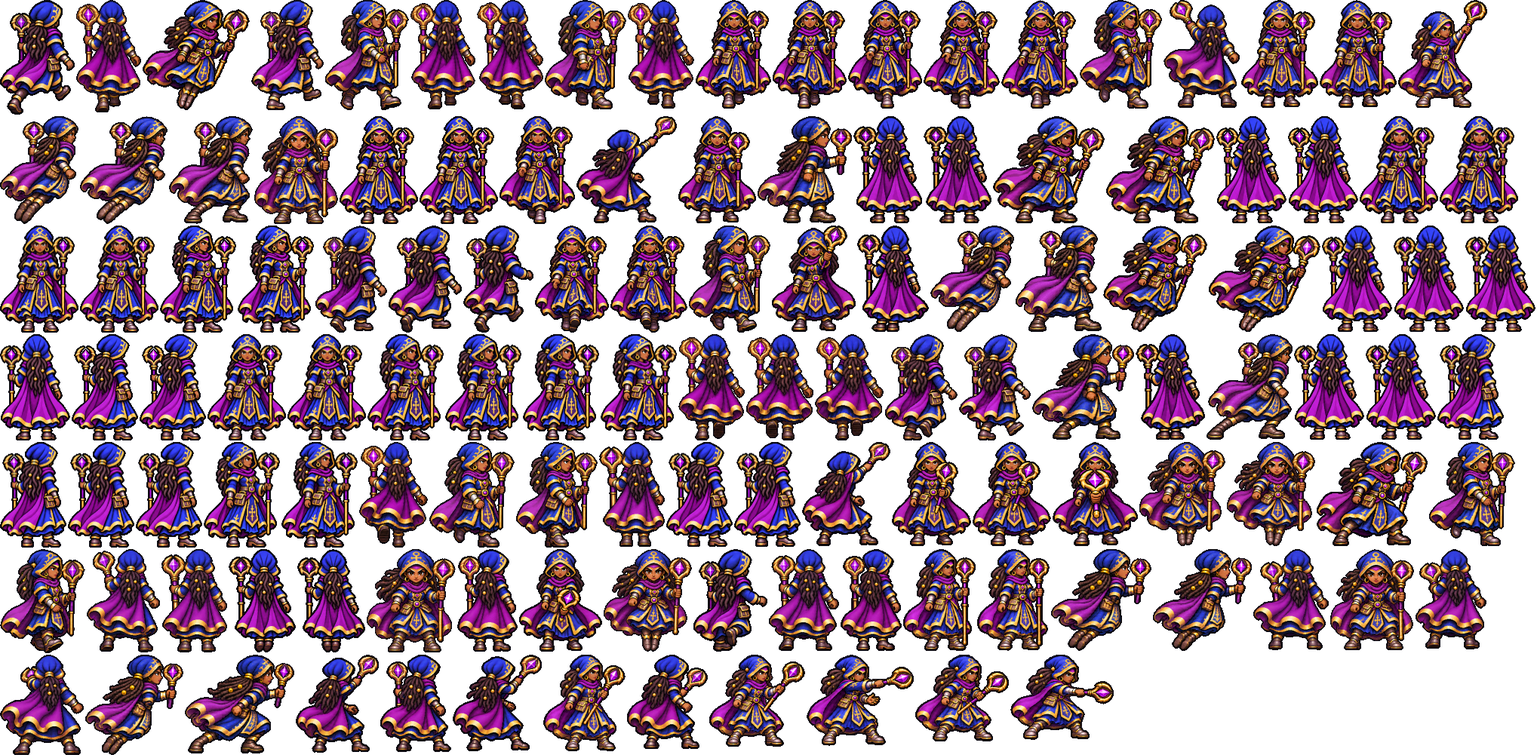
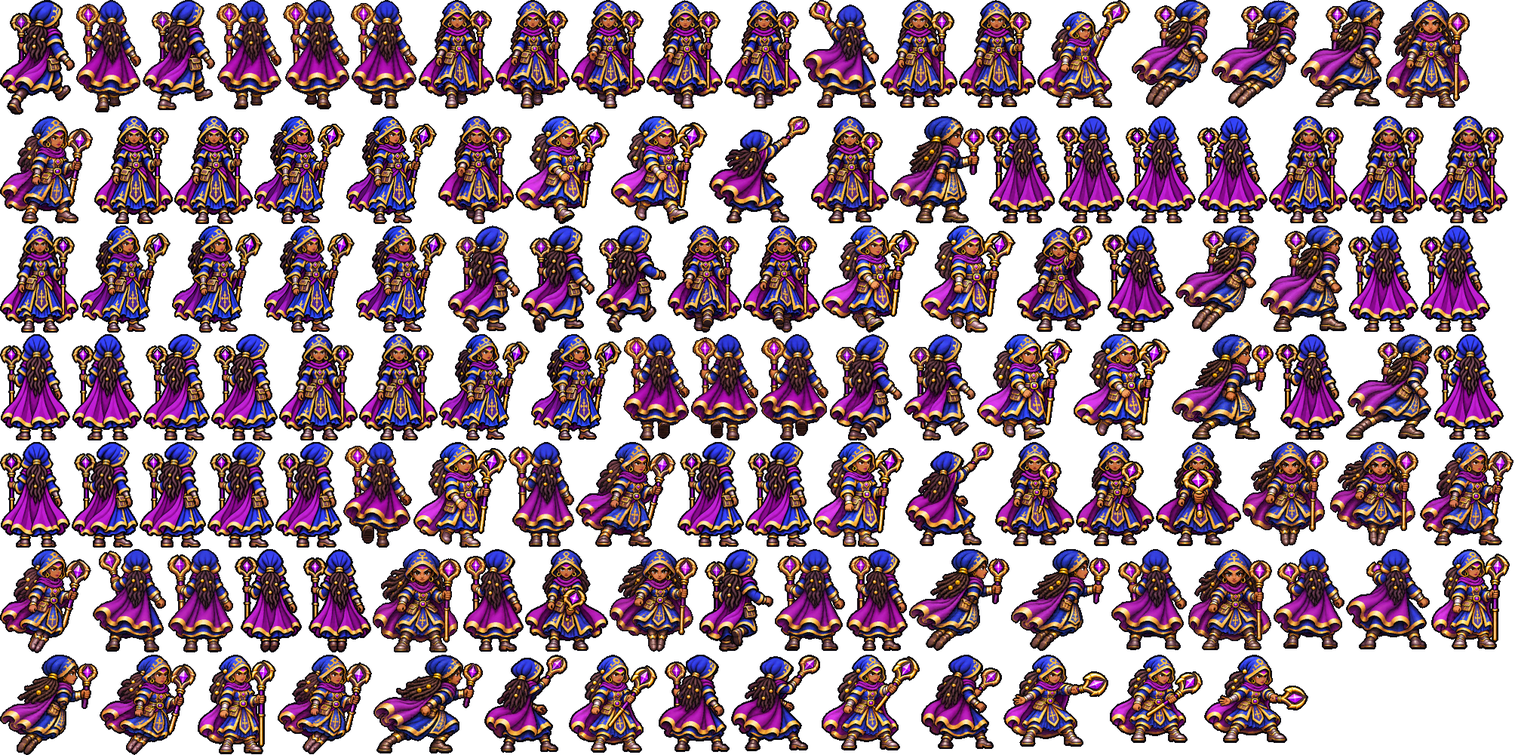
Demo: Mage down-right from batch 20
Claude-Session: https://claude.ai/code/session_01GdUtVyN9RJChkwtqMYVHJY

diff --git a/game.html b/game.html
@@ -4134,11 +4134,11 @@ const HDP = {}; for(const k in HDP_MAN){ HDP[k] = new Image(); const v = HDP_V[k
 // Eight directions (batch 13, the Mage's redrawn in batch 15): the side view is the frames above; south, south-east, north-east and north
 // come from one sheet per hero (HDIR_MAN: [x, y, w, h, anchor x, lift]), loaded when that hero first takes the field, and the west side
 // is drawn mirrored. The dodge has its own frames in every direction, the side included. Hurt, death and the spinning skills stay side-on.
-const HDIR_MAN = {"knight":{"atk_n_1":[348,1016,114,115,67.0,0],"atk_n_2":[1086,885,112,125,72.8,0],"atk_n_3":[502,885,103,127,62.5,0],"atk_n_4":[1037,603,96,140,58.2,0],"atk_n_5":[1513,0,98,145,58.8,0],"atk_n_6":[122,603,102,142,60.1,0],"atk_n_7":[1668,748,111,129,64.4,0],"atk_n_8":[607,885,105,127,66.8,0],"atk_ne_1":[1613,0,115,145,72.0,0],"atk_ne_2":[1781,748,120,129,76.4,0],"atk_ne_3":[1135,603,142,139,86.0,0],"atk_ne_4":[555,603,131,141,70.4,0],"atk_ne_5":[211,0,128,152,68.5,0],"atk_ne_6":[1155,748,129,131,91.8,0],"atk_ne_7":[1903,748,129,129,89.9,0],"atk_ne_8":[1730,0,114,145,71.8,0],"atk_s_1":[1329,885,120,124,52.0,0],"atk_s_2":[0,748,122,135,51.8,0],"atk_s_3":[124,748,125,135,52.0,0],"atk_s_4":[451,0,97,151,52.6,0],"atk_s_5":[0,0,97,162,51.6,0],"atk_s_6":[688,603,117,141,58.8,0],"atk_s_7":[1286,748,123,131,60.2,0],"atk_s_8":[1788,603,123,137,53.0,0],"atk_se_1":[807,603,126,141,60.0,0],"atk_se_2":[130,885,128,128,63.6,0],"atk_se_3":[251,748,128,133,65.2,0],"atk_se_4":[1279,603,113,139,67.1,0],"atk_se_5":[99,0,110,154,63.8,0],"atk_se_6":[381,748,144,133,68.5,0],"atk_se_7":[527,748,129,133,64.2,0],"atk_se_8":[1913,603,126,137,66.4,0],"ddg_e_1":[1200,885,127,125,49.3,4],"ddg_e_2":[1709,1016,152,96,63.3,4],"ddg_e_3":[1863,1016,117,94,46.5,4],"ddg_e_4":[1833,885,115,118,64.0,0],"ddg_e_5":[464,1016,131,113,50.7,0],"ddg_e_6":[1711,885,120,119,58.0,0],"ddg_e_7":[780,748,114,132,58.2,0],"ddg_e_8":[1846,0,107,145,58.0,0],"ddg_n_1":[714,885,123,127,42.2,0],"ddg_n_2":[972,1016,120,107,45.2,0],"ddg_n_3":[1232,1016,117,106,58.4,0],"ddg_n_4":[1451,885,115,122,64.0,0],"ddg_n_5":[839,885,105,126,39.3,0],"ddg_n_6":[896,748,118,132,52.5,0],"ddg_n_7":[456,457,119,143,59.5,0],"ddg_n_8":[550,0,107,150,55.0,0],"ddg_ne_1":[0,885,128,129,60.1,0],"ddg_ne_2":[1411,748,140,131,72.5,6],"ddg_ne_3":[737,1016,109,110,56.8,21],"ddg_ne_4":[125,1016,105,116,59.9,22],"ddg_ne_5":[1016,748,137,132,65.8,7],"ddg_ne_6":[260,885,137,128,71.7,0],"ddg_ne_7":[1394,603,134,139,73.1,0],"ddg_ne_8":[659,0,124,150,68.0,0],"ddg_s_1":[232,1016,114,116,50.4,0],"ddg_s_2":[1351,1016,120,104,59.5,0],"ddg_s_3":[399,885,101,128,50.4,0],"ddg_s_4":[1473,1016,110,98,55.6,11],"ddg_s_5":[1585,1016,122,98,58.5,0],"ddg_s_6":[0,1016,123,118,59.5,0],"ddg_s_7":[658,748,120,133,56.2,0],"ddg_s_8":[0,164,116,145,51.0,0],"ddg_se_1":[1568,885,141,120,60.9,0],"ddg_se_2":[597,1016,138,111,63.1,0],"ddg_se_3":[1553,748,113,131,54.2,0],"ddg_se_4":[848,1016,122,110,58.2,10],"ddg_se_5":[1094,1016,136,107,62.5,0],"ddg_se_6":[946,885,138,126,63.1,0],"ddg_se_7":[1530,603,139,139,67.5,0],"ddg_se_8":[1028,0,130,146,59.0,0],"idl_n_1":[118,164,104,145,65.0,0],"idl_n_2":[0,311,104,144,65.0,0],"idl_n_3":[106,311,104,144,65.0,0],"idl_n_4":[577,457,104,143,65.0,0],"idl_n_5":[683,457,104,143,65.0,0],"idl_n_6":[212,311,104,144,65.0,0],"idl_n_7":[318,311,104,144,65.0,0],"idl_n_8":[224,164,104,145,65.0,0],"idl_ne_1":[424,311,103,144,67.0,0],"idl_ne_2":[789,457,103,143,67.0,0],"idl_ne_3":[894,457,103,143,67.0,0],"idl_ne_4":[226,603,103,142,67.0,0],"idl_ne_5":[331,603,103,142,67.0,0],"idl_ne_6":[999,457,103,143,67.0,0],"idl_ne_7":[1104,457,103,143,67.0,0],"idl_ne_8":[529,311,103,144,67.0,0],"idl_s_1":[330,164,111,145,42.0,0],"idl_s_2":[634,311,111,144,42.0,0],"idl_s_3":[747,311,111,144,42.0,0],"idl_s_4":[1209,457,111,143,42.0,0],"idl_s_5":[1322,457,111,143,42.0,0],"idl_s_6":[860,311,111,144,42.0,0],"idl_s_7":[973,311,111,144,42.0,0],"idl_s_8":[443,164,111,145,42.0,0],"idl_se_1":[556,164,114,145,45.0,0],"idl_se_2":[1086,311,114,144,45.0,0],"idl_se_3":[1202,311,114,144,45.0,0],"idl_se_4":[1435,457,114,143,45.0,0],"idl_se_5":[1551,457,114,143,45.0,0],"idl_se_6":[1318,311,114,144,45.0,0],"idl_se_7":[1434,311,114,144,45.0,0],"idl_se_8":[672,164,114,145,45.0,0],"wk_n_1":[788,164,106,145,66.0,0],"wk_n_2":[1550,311,105,144,66.0,0],"wk_n_3":[1657,311,107,144,67.0,0],"wk_n_4":[1766,311,105,144,66.0,0],"wk_n_5":[1873,311,106,144,66.0,0],"wk_n_6":[1667,457,105,143,66.0,0],"wk_n_7":[0,457,106,144,66.0,0],"wk_n_8":[896,164,105,145,66.0,0],"wk_ne_1":[1003,164,104,145,66.0,0],"wk_ne_2":[935,603,100,141,64.0,0],"wk_ne_3":[1774,457,101,143,64.0,0],"wk_ne_4":[108,457,105,144,65.0,0],"wk_ne_5":[341,0,108,152,62.0,0],"wk_ne_6":[1671,603,115,139,67.0,0],"wk_ne_7":[1877,457,113,143,65.0,0],"wk_ne_8":[1160,0,110,146,63.0,0],"wk_s_1":[1109,164,107,145,42.0,0],"wk_s_2":[1218,164,108,145,43.0,0],"wk_s_3":[1328,164,108,145,44.0,0],"wk_s_4":[1438,164,108,145,44.0,0],"wk_s_5":[1548,164,107,145,43.0,0],"wk_s_6":[1657,164,108,145,44.0,0],"wk_s_7":[1767,164,108,145,44.0,0],"wk_s_8":[1877,164,108,145,45.0,0],"wk_se_1":[907,0,119,149,60.0,0],"wk_se_2":[215,457,119,144,60.0,0],"wk_se_3":[436,603,117,142,58.0,0],"wk_se_4":[1272,0,118,146,61.0,0],"wk_se_5":[785,0,120,150,61.0,0],"wk_se_6":[336,457,118,144,60.0,0],"wk_se_7":[0,603,120,143,62.0,0],"wk_se_8":[1392,0,119,146,62.0,0]},"mage":{"atk_n_1":[794,586,87,139,47.0,0],"atk_n_2":[1019,728,93,135,51.3,0],"atk_n_3":[1876,728,94,133,52.9,0],"atk_n_4":[115,728,97,137,58.5,0],"atk_n_5":[1542,0,101,143,60.1,0],"atk_n_6":[0,868,111,133,65.8,0],"atk_n_7":[1661,728,100,134,60.1,0],"atk_n_8":[214,728,87,137,49.6,0],"atk_ne_1":[606,728,80,136,42.0,0],"atk_ne_2":[504,868,94,129,55.2,0],"atk_ne_3":[831,868,107,125,62.5,0],"atk_ne_4":[392,868,110,130,67.4,0],"atk_ne_5":[1063,586,117,138,64.9,0],"atk_ne_6":[764,154,133,142,72.2,0],"atk_ne_7":[600,868,118,128,68.0,0],"atk_ne_8":[1114,728,81,135,45.6,0],"atk_s_1":[1645,0,102,143,53.0,0],"atk_s_2":[899,154,103,142,54.2,0],"atk_s_3":[1182,586,105,138,54.7,0],"atk_s_4":[1289,586,104,138,54.9,0],"atk_s_5":[1023,299,111,141,57.8,0],"atk_s_6":[1395,586,113,138,58.9,0],"atk_s_7":[688,728,110,136,57.4,0],"atk_s_8":[1749,0,102,143,52.8,0],"atk_se_1":[1197,728,96,135,51.0,0],"atk_se_2":[720,868,109,128,64.3,0],"atk_se_3":[1213,868,124,115,70.9,0],"atk_se_4":[940,868,127,122,71.0,0],"atk_se_5":[1853,0,118,143,63.1,0],"atk_se_6":[1069,868,142,121,73.9,0],"atk_se_7":[1339,868,137,113,77.3,0],"atk_se_8":[1295,728,96,135,59.0,0],"ddg_e_1":[245,868,145,131,60.0,0],"ddg_e_2":[113,868,130,133,58.2,9],"ddg_e_3":[1393,728,133,135,65.4,7],"ddg_e_4":[1528,728,131,135,69.7,6],"ddg_e_5":[1368,443,135,140,72.2,0],"ddg_e_6":[1004,154,125,142,65.0,0],"ddg_n_1":[1131,154,91,142,44.7,0],"ddg_n_2":[1136,299,95,141,42.6,0],"ddg_n_3":[303,728,89,137,43.1,7],"ddg_n_4":[394,728,90,137,45.2,10],"ddg_n_5":[1505,443,92,140,48.4,0],"ddg_n_6":[1224,154,90,142,46.0,0],"ddg_ne_1":[1599,443,114,140,40.8,0],"ddg_ne_2":[0,154,104,143,43.4,4],"ddg_ne_3":[1233,299,111,141,56.0,7],"ddg_ne_4":[106,154,116,143,65.4,4],"ddg_ne_5":[224,154,111,143,65.4,0],"ddg_ne_6":[1346,299,114,141,64.0,0],"ddg_s_1":[1763,728,111,134,54.7,0],"ddg_s_2":[1510,586,114,138,58.6,7],"ddg_s_3":[800,728,117,136,61.2,17],"ddg_s_4":[1626,586,117,138,61.9,11],"ddg_s_5":[486,728,118,137,60.6,0],"ddg_s_6":[337,154,111,143,56.0,0],"ddg_se_1":[1745,586,147,138,55.5,0],"ddg_se_2":[189,0,142,146,54.3,0],"ddg_se_3":[1462,299,138,141,63.2,9],"ddg_se_4":[1602,299,148,141,73.9,7],"ddg_se_5":[1316,154,148,142,75.5,0],"ddg_se_6":[1466,154,144,142,72.0,0],"idl_n_1":[1612,154,93,142,45.0,0],"idl_n_2":[1752,299,93,141,45.0,0],"idl_n_3":[1847,299,93,141,45.0,0],"idl_n_4":[1715,443,93,140,45.0,0],"idl_n_5":[1810,443,93,140,45.0,0],"idl_n_6":[1942,299,93,141,45.0,0],"idl_n_7":[0,443,93,141,45.0,0],"idl_n_8":[1707,154,93,142,45.0,0],"idl_ne_1":[95,443,88,141,47.0,0],"idl_ne_2":[1905,443,88,140,47.0,0],"idl_ne_3":[0,586,88,140,47.0,0],"idl_ne_4":[883,586,88,139,47.0,0],"idl_ne_5":[973,586,88,139,47.0,0],"idl_ne_6":[90,586,88,140,47.0,0],"idl_ne_7":[180,586,88,140,47.0,0],"idl_ne_8":[185,443,88,141,47.0,0],"idl_s_1":[450,154,104,143,55.0,0],"idl_s_2":[1802,154,104,142,55.0,0],"idl_s_3":[1908,154,104,142,55.0,0],"idl_s_4":[275,443,104,141,55.0,0],"idl_s_5":[381,443,104,141,55.0,0],"idl_s_6":[0,299,104,142,55.0,0],"idl_s_7":[106,299,104,142,55.0,0],"idl_s_8":[556,154,104,143,55.0,0],"idl_se_1":[212,299,101,142,54.0,0],"idl_se_2":[487,443,101,141,54.0,0],"idl_se_3":[590,443,101,141,54.0,0],"idl_se_4":[270,586,101,140,54.0,0],"idl_se_5":[373,586,101,140,54.0,0],"idl_se_6":[693,443,101,141,54.0,0],"idl_se_7":[796,443,101,141,54.0,0],"idl_se_8":[315,299,101,142,54.0,0],"wk_n_1":[101,0,86,149,45.0,0],"wk_n_2":[544,0,86,145,46.0,0],"wk_n_3":[899,443,88,141,46.0,0],"wk_n_4":[476,586,91,140,47.0,0],"wk_n_5":[632,0,88,145,47.0,0],"wk_n_6":[832,0,88,144,46.0,0],"wk_n_7":[989,443,89,141,47.0,0],"wk_n_8":[1080,443,91,141,48.0,0],"wk_ne_1":[333,0,96,146,54.0,0],"wk_ne_2":[418,299,95,142,52.0,0],"wk_ne_3":[1173,443,96,141,51.0,0],"wk_ne_4":[1271,443,95,141,50.0,0],"wk_ne_5":[0,0,99,152,56.0,0],"wk_ne_6":[515,299,97,142,54.0,0],"wk_ne_7":[919,728,98,136,51.0,0],"wk_ne_8":[614,299,93,142,47.0,0],"wk_s_1":[922,0,100,144,52.0,0],"wk_s_2":[1024,0,98,144,50.0,0],"wk_s_3":[709,299,98,142,50.0,0],"wk_s_4":[1124,0,98,144,51.0,0],"wk_s_5":[662,154,100,143,52.0,0],"wk_s_6":[1224,0,101,144,53.0,0],"wk_s_7":[809,299,102,142,53.0,0],"wk_s_8":[1327,0,102,144,54.0,0],"wk_se_1":[722,0,108,145,56.0,0],"wk_se_2":[569,586,113,140,60.0,0],"wk_se_3":[684,586,108,140,56.0,0],"wk_se_4":[431,0,111,146,60.0,0],"wk_se_5":[913,299,108,142,56.0,0],"wk_se_6":[1894,586,114,138,61.0,0],"wk_se_7":[0,728,113,138,60.0,0],"wk_se_8":[1431,0,109,144,57.0,0]},"rogue":{"atk_n_1":[495,157,94,141,46.0,0],"atk_n_2":[1434,722,108,118,57.2,0],"atk_n_3":[1667,722,96,117,57.7,0],"atk_n_4":[954,585,97,131,61.9,0],"atk_n_5":[1861,444,105,136,56.7,0],"atk_n_6":[1143,585,127,130,62.3,0],"atk_n_7":[130,722,123,125,58.4,0],"atk_n_8":[499,0,100,142,54.2,0],"atk_ne_1":[591,157,96,141,44.0,0],"atk_ne_2":[1812,585,112,127,56.6,0],"atk_ne_3":[1272,585,107,130,57.2,0],"atk_ne_4":[601,0,108,142,57.0,0],"atk_ne_5":[0,585,120,135,59.4,0],"atk_ne_6":[627,585,138,133,61.0,0],"atk_ne_7":[1586,585,127,129,57.9,0],"atk_ne_8":[689,157,100,141,48.9,0],"atk_s_1":[323,585,93,134,47.0,0],"atk_s_2":[541,851,110,112,55.0,0],"atk_s_3":[1715,585,95,128,42.2,0],"atk_s_4":[122,585,96,135,46.5,0],"atk_s_5":[99,301,96,140,44.6,0],"atk_s_6":[0,722,128,127,70.7,0],"atk_s_7":[1544,722,121,118,59.3,0],"atk_s_8":[767,585,94,133,47.2,0],"atk_se_1":[1371,301,92,139,42.0,0],"atk_se_2":[356,722,101,122,44.2,0],"atk_se_3":[780,722,91,120,39.7,0],"atk_se_4":[418,585,97,134,47.2,0],"atk_se_5":[517,585,108,134,45.0,0],"atk_se_6":[1381,585,113,130,48.2,0],"atk_se_7":[255,722,99,124,48.3,0],"atk_se_8":[792,444,98,138,47.2,0],"ddg_e_1":[133,851,134,113,68.3,0],"ddg_e_2":[1893,722,135,116,75.6,0],"ddg_e_3":[882,851,144,109,70.0,12],"ddg_e_4":[873,722,146,120,59.8,0],"ddg_e_5":[643,722,135,121,50.1,0],"ddg_e_6":[711,0,126,142,57.0,0],"ddg_n_1":[653,851,94,111,42.7,0],"ddg_n_2":[1496,585,88,130,40.7,0],"ddg_n_3":[791,157,86,141,40.7,7],"ddg_n_4":[892,444,86,138,41.9,0],"ddg_n_5":[459,722,87,122,42.4,0],"ddg_n_6":[879,157,80,141,39.0,0],"ddg_ne_1":[749,851,131,111,78.8,0],"ddg_ne_2":[1765,722,126,117,85.8,0],"ddg_ne_3":[1262,851,168,106,100.7,4],"ddg_ne_4":[1298,722,134,119,67.8,0],"ddg_ne_5":[269,851,137,113,55.9,0],"ddg_ne_6":[839,0,118,142,59.0,0],"ddg_s_1":[1028,851,92,109,45.7,4],"ddg_s_2":[1053,585,88,131,43.5,4],"ddg_s_3":[0,0,91,155,45.2,0],"ddg_s_4":[197,301,92,140,45.5,0],"ddg_s_5":[548,722,93,122,46.0,4],"ddg_s_6":[959,0,89,142,44.0,4],"ddg_se_1":[408,851,131,113,66.0,0],"ddg_se_2":[0,851,131,115,72.8,0],"ddg_se_3":[1122,851,138,108,68.0,13],"ddg_se_4":[1021,722,143,120,57.6,0],"ddg_se_5":[1166,722,130,120,47.6,0],"ddg_se_6":[1050,0,122,142,54.0,0],"idl_n_1":[291,301,93,140,47.0,0],"idl_n_2":[1465,301,93,139,47.0,0],"idl_n_3":[1560,301,93,139,47.0,0],"idl_n_4":[980,444,93,138,47.0,0],"idl_n_5":[1075,444,93,138,47.0,0],"idl_n_6":[1655,301,93,139,47.0,0],"idl_n_7":[1750,301,93,139,47.0,0],"idl_n_8":[386,301,93,140,47.0,0],"idl_ne_1":[481,301,91,140,46.0,0],"idl_ne_2":[1845,301,91,139,46.0,0],"idl_ne_3":[1938,301,91,139,46.0,0],"idl_ne_4":[1170,444,91,138,46.0,0],"idl_ne_5":[1263,444,91,138,46.0,0],"idl_ne_6":[0,444,91,139,46.0,0],"idl_ne_7":[93,444,91,139,46.0,0],"idl_ne_8":[574,301,91,140,46.0,0],"idl_s_1":[1174,0,105,142,54.0,0],"idl_s_2":[961,157,105,141,54.0,0],"idl_s_3":[1068,157,105,141,54.0,0],"idl_s_4":[667,301,105,140,54.0,0],"idl_s_5":[774,301,105,140,54.0,0],"idl_s_6":[1175,157,105,141,54.0,0],"idl_s_7":[1282,157,105,141,54.0,0],"idl_s_8":[1281,0,105,142,54.0,0],"idl_se_1":[881,301,105,140,50.0,0],"idl_se_2":[186,444,105,139,50.0,0],"idl_se_3":[293,444,105,139,50.0,0],"idl_se_4":[1356,444,105,138,50.0,0],"idl_se_5":[1463,444,105,138,50.0,0],"idl_se_6":[400,444,105,139,50.0,0],"idl_se_7":[507,444,105,139,50.0,0],"idl_se_8":[988,301,105,140,50.0,0],"wk_n_1":[93,0,95,144,47.0,0],"wk_n_2":[1388,0,96,142,47.0,0],"wk_n_3":[1389,157,96,141,48.0,0],"wk_n_4":[1487,157,97,141,49.0,0],"wk_n_5":[1586,157,96,141,48.0,0],"wk_n_6":[1095,301,95,140,48.0,0],"wk_n_7":[294,0,96,143,48.0,0],"wk_n_8":[1486,0,96,142,48.0,0],"wk_ne_1":[1192,301,87,140,42.0,0],"wk_ne_2":[863,585,89,132,44.0,0],"wk_ne_3":[614,444,84,139,40.0,0],"wk_ne_4":[1684,157,89,141,42.0,0],"wk_ne_5":[392,0,105,143,51.0,0],"wk_ne_6":[1570,444,101,138,48.0,0],"wk_ne_7":[220,585,101,135,48.0,0],"wk_ne_8":[190,0,102,144,50.0,0],"wk_s_1":[1584,0,97,142,50.0,0],"wk_s_2":[1683,0,100,142,51.0,0],"wk_s_3":[1785,0,100,142,52.0,0],"wk_s_4":[1887,0,99,142,53.0,0],"wk_s_5":[0,157,96,142,51.0,0],"wk_s_6":[98,157,99,142,52.0,0],"wk_s_7":[1775,157,97,141,51.0,0],"wk_s_8":[199,157,102,142,55.0,0],"wk_se_1":[303,157,92,142,44.0,0],"wk_se_2":[1673,444,92,138,43.0,0],"wk_se_3":[1281,301,88,140,41.0,0],"wk_se_4":[397,157,96,142,44.0,0],"wk_se_5":[1874,157,96,141,47.0,0],"wk_se_6":[1767,444,92,137,43.0,0],"wk_se_7":[700,444,90,139,41.0,0],"wk_se_8":[0,301,97,141,44.0,0]}};
+const HDIR_MAN = {"knight":{"atk_n_1":[348,1016,114,115,67.0,0],"atk_n_2":[1086,885,112,125,72.8,0],"atk_n_3":[502,885,103,127,62.5,0],"atk_n_4":[1037,603,96,140,58.2,0],"atk_n_5":[1513,0,98,145,58.8,0],"atk_n_6":[122,603,102,142,60.1,0],"atk_n_7":[1668,748,111,129,64.4,0],"atk_n_8":[607,885,105,127,66.8,0],"atk_ne_1":[1613,0,115,145,72.0,0],"atk_ne_2":[1781,748,120,129,76.4,0],"atk_ne_3":[1135,603,142,139,86.0,0],"atk_ne_4":[555,603,131,141,70.4,0],"atk_ne_5":[211,0,128,152,68.5,0],"atk_ne_6":[1155,748,129,131,91.8,0],"atk_ne_7":[1903,748,129,129,89.9,0],"atk_ne_8":[1730,0,114,145,71.8,0],"atk_s_1":[1329,885,120,124,52.0,0],"atk_s_2":[0,748,122,135,51.8,0],"atk_s_3":[124,748,125,135,52.0,0],"atk_s_4":[451,0,97,151,52.6,0],"atk_s_5":[0,0,97,162,51.6,0],"atk_s_6":[688,603,117,141,58.8,0],"atk_s_7":[1286,748,123,131,60.2,0],"atk_s_8":[1788,603,123,137,53.0,0],"atk_se_1":[807,603,126,141,60.0,0],"atk_se_2":[130,885,128,128,63.6,0],"atk_se_3":[251,748,128,133,65.2,0],"atk_se_4":[1279,603,113,139,67.1,0],"atk_se_5":[99,0,110,154,63.8,0],"atk_se_6":[381,748,144,133,68.5,0],"atk_se_7":[527,748,129,133,64.2,0],"atk_se_8":[1913,603,126,137,66.4,0],"ddg_e_1":[1200,885,127,125,49.3,4],"ddg_e_2":[1709,1016,152,96,63.3,4],"ddg_e_3":[1863,1016,117,94,46.5,4],"ddg_e_4":[1833,885,115,118,64.0,0],"ddg_e_5":[464,1016,131,113,50.7,0],"ddg_e_6":[1711,885,120,119,58.0,0],"ddg_e_7":[780,748,114,132,58.2,0],"ddg_e_8":[1846,0,107,145,58.0,0],"ddg_n_1":[714,885,123,127,42.2,0],"ddg_n_2":[972,1016,120,107,45.2,0],"ddg_n_3":[1232,1016,117,106,58.4,0],"ddg_n_4":[1451,885,115,122,64.0,0],"ddg_n_5":[839,885,105,126,39.3,0],"ddg_n_6":[896,748,118,132,52.5,0],"ddg_n_7":[456,457,119,143,59.5,0],"ddg_n_8":[550,0,107,150,55.0,0],"ddg_ne_1":[0,885,128,129,60.1,0],"ddg_ne_2":[1411,748,140,131,72.5,6],"ddg_ne_3":[737,1016,109,110,56.8,21],"ddg_ne_4":[125,1016,105,116,59.9,22],"ddg_ne_5":[1016,748,137,132,65.8,7],"ddg_ne_6":[260,885,137,128,71.7,0],"ddg_ne_7":[1394,603,134,139,73.1,0],"ddg_ne_8":[659,0,124,150,68.0,0],"ddg_s_1":[232,1016,114,116,50.4,0],"ddg_s_2":[1351,1016,120,104,59.5,0],"ddg_s_3":[399,885,101,128,50.4,0],"ddg_s_4":[1473,1016,110,98,55.6,11],"ddg_s_5":[1585,1016,122,98,58.5,0],"ddg_s_6":[0,1016,123,118,59.5,0],"ddg_s_7":[658,748,120,133,56.2,0],"ddg_s_8":[0,164,116,145,51.0,0],"ddg_se_1":[1568,885,141,120,60.9,0],"ddg_se_2":[597,1016,138,111,63.1,0],"ddg_se_3":[1553,748,113,131,54.2,0],"ddg_se_4":[848,1016,122,110,58.2,10],"ddg_se_5":[1094,1016,136,107,62.5,0],"ddg_se_6":[946,885,138,126,63.1,0],"ddg_se_7":[1530,603,139,139,67.5,0],"ddg_se_8":[1028,0,130,146,59.0,0],"idl_n_1":[118,164,104,145,65.0,0],"idl_n_2":[0,311,104,144,65.0,0],"idl_n_3":[106,311,104,144,65.0,0],"idl_n_4":[577,457,104,143,65.0,0],"idl_n_5":[683,457,104,143,65.0,0],"idl_n_6":[212,311,104,144,65.0,0],"idl_n_7":[318,311,104,144,65.0,0],"idl_n_8":[224,164,104,145,65.0,0],"idl_ne_1":[424,311,103,144,67.0,0],"idl_ne_2":[789,457,103,143,67.0,0],"idl_ne_3":[894,457,103,143,67.0,0],"idl_ne_4":[226,603,103,142,67.0,0],"idl_ne_5":[331,603,103,142,67.0,0],"idl_ne_6":[999,457,103,143,67.0,0],"idl_ne_7":[1104,457,103,143,67.0,0],"idl_ne_8":[529,311,103,144,67.0,0],"idl_s_1":[330,164,111,145,42.0,0],"idl_s_2":[634,311,111,144,42.0,0],"idl_s_3":[747,311,111,144,42.0,0],"idl_s_4":[1209,457,111,143,42.0,0],"idl_s_5":[1322,457,111,143,42.0,0],"idl_s_6":[860,311,111,144,42.0,0],"idl_s_7":[973,311,111,144,42.0,0],"idl_s_8":[443,164,111,145,42.0,0],"idl_se_1":[556,164,114,145,45.0,0],"idl_se_2":[1086,311,114,144,45.0,0],"idl_se_3":[1202,311,114,144,45.0,0],"idl_se_4":[1435,457,114,143,45.0,0],"idl_se_5":[1551,457,114,143,45.0,0],"idl_se_6":[1318,311,114,144,45.0,0],"idl_se_7":[1434,311,114,144,45.0,0],"idl_se_8":[672,164,114,145,45.0,0],"wk_n_1":[788,164,106,145,66.0,0],"wk_n_2":[1550,311,105,144,66.0,0],"wk_n_3":[1657,311,107,144,67.0,0],"wk_n_4":[1766,311,105,144,66.0,0],"wk_n_5":[1873,311,106,144,66.0,0],"wk_n_6":[1667,457,105,143,66.0,0],"wk_n_7":[0,457,106,144,66.0,0],"wk_n_8":[896,164,105,145,66.0,0],"wk_ne_1":[1003,164,104,145,66.0,0],"wk_ne_2":[935,603,100,141,64.0,0],"wk_ne_3":[1774,457,101,143,64.0,0],"wk_ne_4":[108,457,105,144,65.0,0],"wk_ne_5":[341,0,108,152,62.0,0],"wk_ne_6":[1671,603,115,139,67.0,0],"wk_ne_7":[1877,457,113,143,65.0,0],"wk_ne_8":[1160,0,110,146,63.0,0],"wk_s_1":[1109,164,107,145,42.0,0],"wk_s_2":[1218,164,108,145,43.0,0],"wk_s_3":[1328,164,108,145,44.0,0],"wk_s_4":[1438,164,108,145,44.0,0],"wk_s_5":[1548,164,107,145,43.0,0],"wk_s_6":[1657,164,108,145,44.0,0],"wk_s_7":[1767,164,108,145,44.0,0],"wk_s_8":[1877,164,108,145,45.0,0],"wk_se_1":[907,0,119,149,60.0,0],"wk_se_2":[215,457,119,144,60.0,0],"wk_se_3":[436,603,117,142,58.0,0],"wk_se_4":[1272,0,118,146,61.0,0],"wk_se_5":[785,0,120,150,61.0,0],"wk_se_6":[336,457,118,144,60.0,0],"wk_se_7":[0,603,120,143,62.0,0],"wk_se_8":[1392,0,119,146,62.0,0]},"mage":{"atk_n_1":[674,586,87,139,47.0,0],"atk_n_2":[1027,728,93,135,51.3,0],"atk_n_3":[1688,728,94,133,52.9,0],"atk_n_4":[123,728,97,137,58.5,0],"atk_n_5":[1064,0,101,143,60.1,0],"atk_n_6":[1784,728,111,133,65.8,0],"atk_n_7":[1473,728,100,134,60.1,0],"atk_n_8":[222,728,87,137,49.6,0],"atk_ne_1":[614,728,80,136,42.0,0],"atk_ne_2":[873,868,94,129,55.2,0],"atk_ne_3":[1221,868,107,125,62.5,0],"atk_ne_4":[642,868,110,130,67.4,0],"atk_ne_5":[1200,586,117,138,64.9,0],"atk_ne_6":[940,154,133,142,72.2,0],"atk_ne_7":[969,868,118,128,68.0,0],"atk_ne_8":[1122,728,81,135,45.6,0],"atk_s_1":[1167,0,102,143,53.0,0],"atk_s_2":[1075,154,103,142,54.2,0],"atk_s_3":[1319,586,105,138,54.7,0],"atk_s_4":[1426,586,104,138,54.9,0],"atk_s_5":[1348,299,111,141,57.8,0],"atk_s_6":[1532,586,113,138,58.9,0],"atk_s_7":[696,728,110,136,57.4,0],"atk_s_8":[1271,0,102,143,52.8,0],"atk_se_1":[1897,728,104,133,53.0,0],"atk_se_2":[754,868,117,130,62.9,0],"atk_se_3":[1471,868,123,117,71.1,0],"atk_se_4":[1089,868,130,127,72.6,0],"atk_se_5":[1375,0,123,143,63.7,0],"atk_se_6":[1330,868,139,122,73.0,0],"atk_se_7":[1596,868,138,117,76.8,0],"atk_se_8":[262,868,104,132,63.2,0],"ddg_e_1":[495,868,145,131,60.0,0],"ddg_e_2":[0,868,130,133,58.2,9],"ddg_e_3":[1205,728,133,135,65.4,7],"ddg_e_4":[1340,728,131,135,69.7,6],"ddg_e_5":[1553,443,135,140,72.2,0],"ddg_e_6":[1180,154,125,142,65.0,0],"ddg_n_1":[1307,154,91,142,44.7,0],"ddg_n_2":[1461,299,95,141,42.6,0],"ddg_n_3":[311,728,89,137,43.1,7],"ddg_n_4":[402,728,90,137,45.2,10],"ddg_n_5":[1690,443,92,140,48.4,0],"ddg_n_6":[1400,154,90,142,46.0,0],"ddg_ne_1":[1784,443,114,140,40.8,0],"ddg_ne_2":[1500,0,104,143,43.4,4],"ddg_ne_3":[1558,299,111,141,56.0,7],"ddg_ne_4":[1606,0,116,143,65.4,4],"ddg_ne_5":[1724,0,111,143,65.4,0],"ddg_ne_6":[1671,299,114,141,64.0,0],"ddg_s_1":[1575,728,111,134,54.7,0],"ddg_s_2":[1647,586,114,138,58.6,7],"ddg_s_3":[808,728,117,136,61.2,17],"ddg_s_4":[1763,586,117,138,61.9,11],"ddg_s_5":[494,728,118,137,60.6,0],"ddg_s_6":[1837,0,111,143,56.0,0],"ddg_se_1":[1882,586,124,138,42.0,0],"ddg_se_2":[0,728,121,138,47.3,7],"ddg_se_3":[368,868,125,132,57.4,13],"ddg_se_4":[132,868,128,133,61.6,13],"ddg_se_5":[763,586,133,139,66.8,0],"ddg_se_6":[0,154,123,143,63.0,0],"idl_n_1":[1492,154,93,142,45.0,0],"idl_n_2":[1787,299,93,141,45.0,0],"idl_n_3":[1882,299,93,141,45.0,0],"idl_n_4":[1900,443,93,140,45.0,0],"idl_n_5":[0,586,93,140,45.0,0],"idl_n_6":[0,443,93,141,45.0,0],"idl_n_7":[95,443,93,141,45.0,0],"idl_n_8":[1587,154,93,142,45.0,0],"idl_ne_1":[190,443,88,141,47.0,0],"idl_ne_2":[95,586,88,140,47.0,0],"idl_ne_3":[185,586,88,140,47.0,0],"idl_ne_4":[898,586,88,139,47.0,0],"idl_ne_5":[988,586,88,139,47.0,0],"idl_ne_6":[275,586,88,140,47.0,0],"idl_ne_7":[365,586,88,140,47.0,0],"idl_ne_8":[280,443,88,141,47.0,0],"idl_s_1":[125,154,104,143,55.0,0],"idl_s_2":[1682,154,104,142,55.0,0],"idl_s_3":[1788,154,104,142,55.0,0],"idl_s_4":[370,443,104,141,55.0,0],"idl_s_5":[476,443,104,141,55.0,0],"idl_s_6":[1894,154,104,142,55.0,0],"idl_s_7":[0,299,104,142,55.0,0],"idl_s_8":[231,154,104,143,55.0,0],"idl_se_1":[337,154,120,143,59.0,0],"idl_se_2":[106,299,120,142,59.0,0],"idl_se_3":[228,299,120,142,59.0,0],"idl_se_4":[582,443,120,141,59.0,0],"idl_se_5":[704,443,120,141,59.0,0],"idl_se_6":[350,299,120,142,59.0,0],"idl_se_7":[472,299,120,142,59.0,0],"idl_se_8":[459,154,120,143,59.0,0],"wk_n_1":[101,0,86,149,45.0,0],"wk_n_2":[287,0,86,145,46.0,0],"wk_n_3":[826,443,88,141,46.0,0],"wk_n_4":[455,586,91,140,47.0,0],"wk_n_5":[375,0,88,145,47.0,0],"wk_n_6":[465,0,88,144,46.0,0],"wk_n_7":[916,443,89,141,47.0,0],"wk_n_8":[1007,443,91,141,48.0,0],"wk_ne_1":[189,0,96,146,54.0,0],"wk_ne_2":[594,299,95,142,52.0,0],"wk_ne_3":[1100,443,96,141,51.0,0],"wk_ne_4":[1198,443,95,141,50.0,0],"wk_ne_5":[0,0,99,152,56.0,0],"wk_ne_6":[691,299,97,142,54.0,0],"wk_ne_7":[927,728,98,136,51.0,0],"wk_ne_8":[790,299,93,142,47.0,0],"wk_s_1":[555,0,100,144,52.0,0],"wk_s_2":[657,0,98,144,50.0,0],"wk_s_3":[885,299,98,142,50.0,0],"wk_s_4":[757,0,98,144,51.0,0],"wk_s_5":[581,154,100,143,52.0,0],"wk_s_6":[857,0,101,144,53.0,0],"wk_s_7":[985,299,102,142,53.0,0],"wk_s_8":[960,0,102,144,54.0,0],"wk_se_1":[1078,586,120,139,60.0,0],"wk_se_2":[548,586,124,140,61.0,0],"wk_se_3":[683,154,125,143,61.0,0],"wk_se_4":[810,154,128,143,62.0,0],"wk_se_5":[1295,443,126,141,63.0,0],"wk_se_6":[1423,443,128,141,63.0,0],"wk_se_7":[1089,299,129,142,65.0,0],"wk_se_8":[1220,299,126,142,62.0,0]},"rogue":{"atk_n_1":[495,157,94,141,46.0,0],"atk_n_2":[1434,722,108,118,57.2,0],"atk_n_3":[1667,722,96,117,57.7,0],"atk_n_4":[954,585,97,131,61.9,0],"atk_n_5":[1861,444,105,136,56.7,0],"atk_n_6":[1143,585,127,130,62.3,0],"atk_n_7":[130,722,123,125,58.4,0],"atk_n_8":[499,0,100,142,54.2,0],"atk_ne_1":[591,157,96,141,44.0,0],"atk_ne_2":[1812,585,112,127,56.6,0],"atk_ne_3":[1272,585,107,130,57.2,0],"atk_ne_4":[601,0,108,142,57.0,0],"atk_ne_5":[0,585,120,135,59.4,0],"atk_ne_6":[627,585,138,133,61.0,0],"atk_ne_7":[1586,585,127,129,57.9,0],"atk_ne_8":[689,157,100,141,48.9,0],"atk_s_1":[323,585,93,134,47.0,0],"atk_s_2":[541,851,110,112,55.0,0],"atk_s_3":[1715,585,95,128,42.2,0],"atk_s_4":[122,585,96,135,46.5,0],"atk_s_5":[99,301,96,140,44.6,0],"atk_s_6":[0,722,128,127,70.7,0],"atk_s_7":[1544,722,121,118,59.3,0],"atk_s_8":[767,585,94,133,47.2,0],"atk_se_1":[1371,301,92,139,42.0,0],"atk_se_2":[356,722,101,122,44.2,0],"atk_se_3":[780,722,91,120,39.7,0],"atk_se_4":[418,585,97,134,47.2,0],"atk_se_5":[517,585,108,134,45.0,0],"atk_se_6":[1381,585,113,130,48.2,0],"atk_se_7":[255,722,99,124,48.3,0],"atk_se_8":[792,444,98,138,47.2,0],"ddg_e_1":[133,851,134,113,68.3,0],"ddg_e_2":[1893,722,135,116,75.6,0],"ddg_e_3":[882,851,144,109,70.0,12],"ddg_e_4":[873,722,146,120,59.8,0],"ddg_e_5":[643,722,135,121,50.1,0],"ddg_e_6":[711,0,126,142,57.0,0],"ddg_n_1":[653,851,94,111,42.7,0],"ddg_n_2":[1496,585,88,130,40.7,0],"ddg_n_3":[791,157,86,141,40.7,7],"ddg_n_4":[892,444,86,138,41.9,0],"ddg_n_5":[459,722,87,122,42.4,0],"ddg_n_6":[879,157,80,141,39.0,0],"ddg_ne_1":[749,851,131,111,78.8,0],"ddg_ne_2":[1765,722,126,117,85.8,0],"ddg_ne_3":[1262,851,168,106,100.7,4],"ddg_ne_4":[1298,722,134,119,67.8,0],"ddg_ne_5":[269,851,137,113,55.9,0],"ddg_ne_6":[839,0,118,142,59.0,0],"ddg_s_1":[1028,851,92,109,45.7,4],"ddg_s_2":[1053,585,88,131,43.5,4],"ddg_s_3":[0,0,91,155,45.2,0],"ddg_s_4":[197,301,92,140,45.5,0],"ddg_s_5":[548,722,93,122,46.0,4],"ddg_s_6":[959,0,89,142,44.0,4],"ddg_se_1":[408,851,131,113,66.0,0],"ddg_se_2":[0,851,131,115,72.8,0],"ddg_se_3":[1122,851,138,108,68.0,13],"ddg_se_4":[1021,722,143,120,57.6,0],"ddg_se_5":[1166,722,130,120,47.6,0],"ddg_se_6":[1050,0,122,142,54.0,0],"idl_n_1":[291,301,93,140,47.0,0],"idl_n_2":[1465,301,93,139,47.0,0],"idl_n_3":[1560,301,93,139,47.0,0],"idl_n_4":[980,444,93,138,47.0,0],"idl_n_5":[1075,444,93,138,47.0,0],"idl_n_6":[1655,301,93,139,47.0,0],"idl_n_7":[1750,301,93,139,47.0,0],"idl_n_8":[386,301,93,140,47.0,0],"idl_ne_1":[481,301,91,140,46.0,0],"idl_ne_2":[1845,301,91,139,46.0,0],"idl_ne_3":[1938,301,91,139,46.0,0],"idl_ne_4":[1170,444,91,138,46.0,0],"idl_ne_5":[1263,444,91,138,46.0,0],"idl_ne_6":[0,444,91,139,46.0,0],"idl_ne_7":[93,444,91,139,46.0,0],"idl_ne_8":[574,301,91,140,46.0,0],"idl_s_1":[1174,0,105,142,54.0,0],"idl_s_2":[961,157,105,141,54.0,0],"idl_s_3":[1068,157,105,141,54.0,0],"idl_s_4":[667,301,105,140,54.0,0],"idl_s_5":[774,301,105,140,54.0,0],"idl_s_6":[1175,157,105,141,54.0,0],"idl_s_7":[1282,157,105,141,54.0,0],"idl_s_8":[1281,0,105,142,54.0,0],"idl_se_1":[881,301,105,140,50.0,0],"idl_se_2":[186,444,105,139,50.0,0],"idl_se_3":[293,444,105,139,50.0,0],"idl_se_4":[1356,444,105,138,50.0,0],"idl_se_5":[1463,444,105,138,50.0,0],"idl_se_6":[400,444,105,139,50.0,0],"idl_se_7":[507,444,105,139,50.0,0],"idl_se_8":[988,301,105,140,50.0,0],"wk_n_1":[93,0,95,144,47.0,0],"wk_n_2":[1388,0,96,142,47.0,0],"wk_n_3":[1389,157,96,141,48.0,0],"wk_n_4":[1487,157,97,141,49.0,0],"wk_n_5":[1586,157,96,141,48.0,0],"wk_n_6":[1095,301,95,140,48.0,0],"wk_n_7":[294,0,96,143,48.0,0],"wk_n_8":[1486,0,96,142,48.0,0],"wk_ne_1":[1192,301,87,140,42.0,0],"wk_ne_2":[863,585,89,132,44.0,0],"wk_ne_3":[614,444,84,139,40.0,0],"wk_ne_4":[1684,157,89,141,42.0,0],"wk_ne_5":[392,0,105,143,51.0,0],"wk_ne_6":[1570,444,101,138,48.0,0],"wk_ne_7":[220,585,101,135,48.0,0],"wk_ne_8":[190,0,102,144,50.0,0],"wk_s_1":[1584,0,97,142,50.0,0],"wk_s_2":[1683,0,100,142,51.0,0],"wk_s_3":[1785,0,100,142,52.0,0],"wk_s_4":[1887,0,99,142,53.0,0],"wk_s_5":[0,157,96,142,51.0,0],"wk_s_6":[98,157,99,142,52.0,0],"wk_s_7":[1775,157,97,141,51.0,0],"wk_s_8":[199,157,102,142,55.0,0],"wk_se_1":[303,157,92,142,44.0,0],"wk_se_2":[1673,444,92,138,43.0,0],"wk_se_3":[1281,301,88,140,41.0,0],"wk_se_4":[397,157,96,142,44.0,0],"wk_se_5":[1874,157,96,141,47.0,0],"wk_se_6":[1767,444,92,137,43.0,0],"wk_se_7":[700,444,90,139,41.0,0],"wk_se_8":[0,301,97,141,44.0,0]}};
 const HDIR_IMG = {}, HDIR_SEC = ['e', 'se', 's', 'sw', 'w', 'nw', 'n', 'ne'];
 const HDIR_SRC = {e:['e', 0], se:['se', 0], s:['s', 0], sw:['se', 1], w:['e', 1], nw:['ne', 1], n:['n', 0], ne:['ne', 0]};   // [frames, mirrored]
 const HDIR_NDDG = {}; for(const c in HDIR_MAN) HDIR_NDDG[c] = Object.keys(HDIR_MAN[c]).filter(k => k.startsWith('ddg_e_')).length;
-function hdirImg(c){ let im = HDIR_IMG[c]; if(!im && HDIR_MAN[c]){ im = HDIR_IMG[c] = new Image(); im.src = 'assets/hero_' + c + '_dirs.webp?v=4'; } return im && im.naturalWidth ? im : null; }
+function hdirImg(c){ let im = HDIR_IMG[c]; if(!im && HDIR_MAN[c]){ im = HDIR_IMG[c] = new Image(); im.src = 'assets/hero_' + c + '_dirs.webp?v=5'; } return im && im.naturalWidth ? im : null; }
 function heroAngle(P, st){                       // where the hero looks: the dodge's way, the blow's way, the mouse (PC), else the way they last moved
   if(P.dodge) return P.dodge.ang;
   if(P.swing || P.cast || P.ult || G.time - st.a < 0.4) return P.aim ?? (P.face < 0 ? Math.PI : 0);
